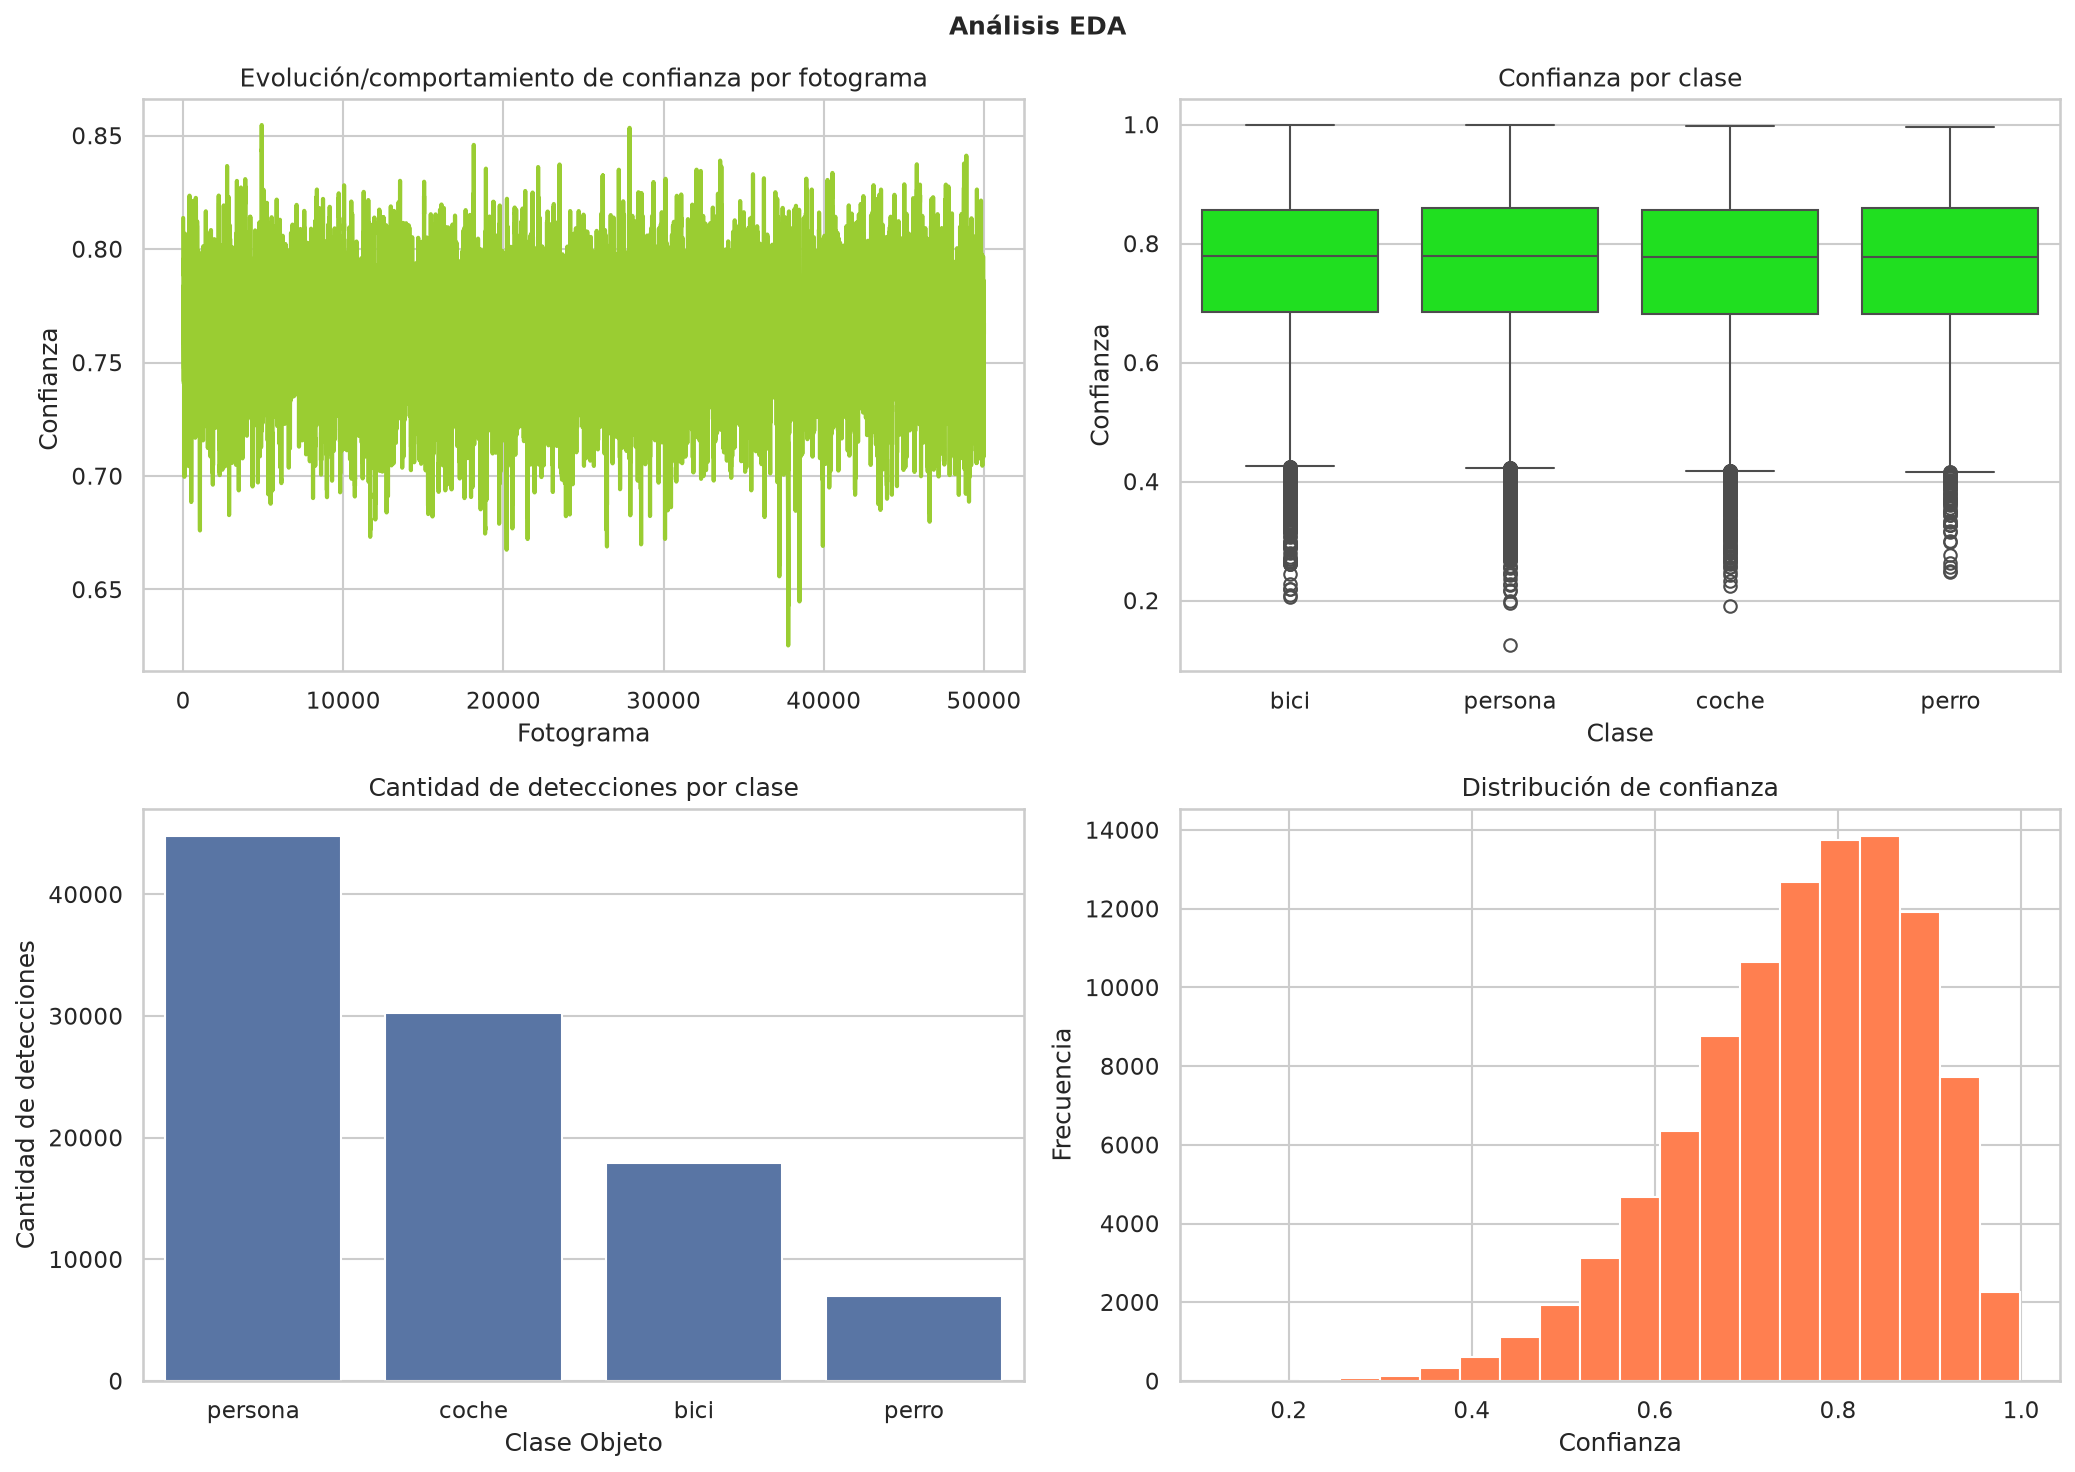
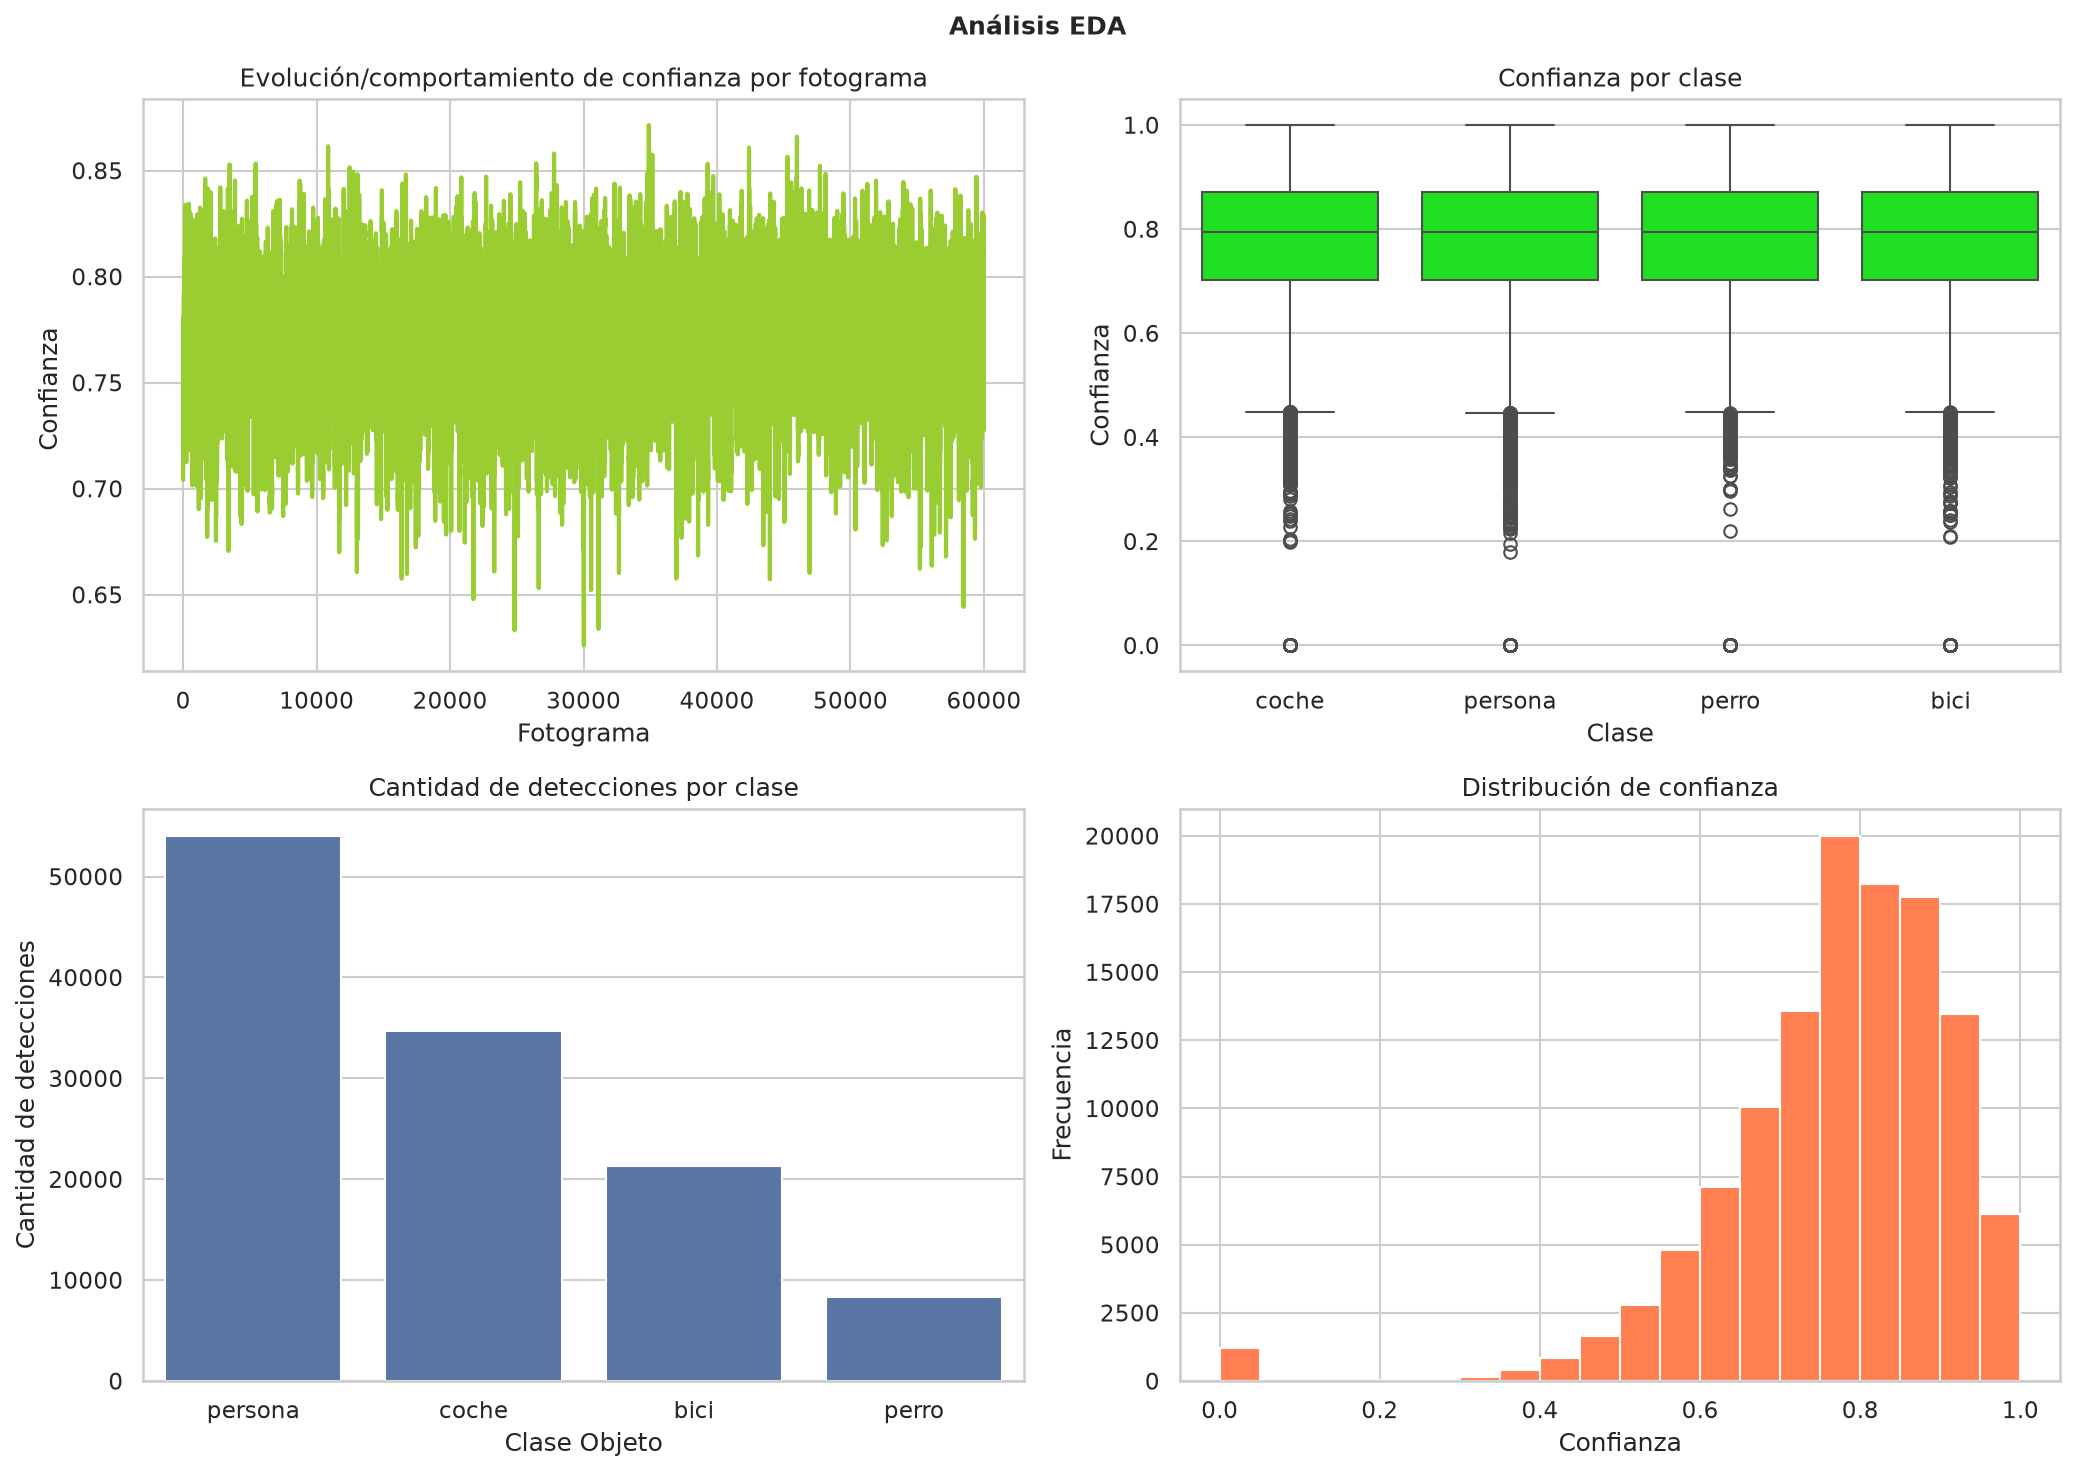
avance proyecto

diff --git a/Bloque_0_Fundamentos_Entrada/Unidad_0.3_Estructuras_de_Datos_Algoritmos_Fundamentales/Dia_08_algo_integrador/pipeline_vixia/pipeline.py b/Bloque_0_Fundamentos_Entrada/Unidad_0.3_Estructuras_de_Datos_Algoritmos_Fundamentales/Dia_08_algo_integrador/pipeline_vixia/pipeline.py
@@ -1,0 +1,108 @@
+from dataclasses import dataclass
+
+@dataclass(frozen=True)
+class Deteccion:
+
+    id : str
+    clase : str
+    confianza : float
+    x : float
+    y : float
+    timestamp : int
+
+def construir_indices(detecciones: list[Deteccion]) -> dict:
+    por_id = {}
+    por_clase = {}
+    vistos = set()
+    duplicados = 0
+
+    for i in detecciones:
+        if i.id in vistos:
+            duplicados += 1
+            continue
+
+        por_id[i.id] = i
+
+
+        if i.clase not in por_clase:
+            por_clase[i.clase] = []
+
+        por_clase[i.clase].append(i)
+
+        vistos.add(i.id)
+
+    return {
+        "por_id": por_id,
+        "por_clase": por_clase,
+        "vistos": vistos,
+        "duplicados": duplicados
+    }
+
+def limite_izquierdo(confianzas: list[float],umbral:float)-> int:
+    bajo=0
+    alto=len(confianzas)
+    while bajo<alto:
+        medio=(bajo+alto) // 2
+
+        if confianzas[medio]<umbral:
+            bajo=medio+1
+        else:
+            alto=medio
+
+    return bajo
+
+
+
+def seleccionar_por_umbral(detecciones: list[Deteccion],umbral: float) -> list[Deteccion]:
+
+    ordenadas = sorted(detecciones, key=lambda x: x.confianza)
+
+    lista = []
+    for i in ordenadas:
+        lista.append(i.confianza)
+
+    return ordenadas[limite_izquierdo(lista,umbral):]
+
+
+detecciones = [
+    Deteccion(
+        id="obj_01",
+        clase="persona",
+        confianza=0.91,
+        x=10.5,
+        y=20.0,
+        timestamp=100
+    ),
+    Deteccion(
+        id="obj_02",
+        clase="coche",
+        confianza=0.78,
+        x=15.2,
+        y=22.4,
+        timestamp=101
+    ),
+    Deteccion(
+        id="obj_03",
+        clase="persona",
+        confianza=0.84,
+        x=8.0,
+        y=19.3,
+        timestamp=102
+    )
+]
+
+lista = seleccionar_por_umbral(detecciones,umbral=0.8)
+print(lista)
+
+
+
+
+
+
+
+
+
+
+
+
+

diff --git a/Bloque_0_Fundamentos_Entrada/Unidad_0.3_Estructuras_de_Datos_Algoritmos_Fundamentales/Dia_08_algo_integrador/pipeline_vixia/test_pipeline.py b/Bloque_0_Fundamentos_Entrada/Unidad_0.3_Estructuras_de_Datos_Algoritmos_Fundamentales/Dia_08_algo_integrador/pipeline_vixia/test_pipeline.py
@@ -1,0 +1,61 @@
+import pytest
+from pipeline_vixia.pipeline import Deteccion, construir_indices,limite_izquierdo,seleccionar_por_umbral
+
+
+def test_analisis_instancia():
+    result = Deteccion("objeto_01", "persona", 0.28, 10.5, 20, 3)
+    assert isinstance(result, Deteccion)
+
+def test_deduplicacion():
+    result1 = Deteccion("a", "persona",0.67, 10.52, 11, 9)
+    result2 = Deteccion("a", "persona",0.12, 14.2, 13, 4)
+    resultado=construir_indices([result1 ,result2])
+    assert resultado["duplicados"]==1
+    assert len(resultado["por_id"])==1
+
+    assert  resultado["por_id"]["a"]==result1
+    assert resultado["por_clase"]["persona"]==[result1]
+
+def test_limite_izquierdo():
+    confianzas = [0.20, 0.45, 0.61, 0.78, 0.93]
+    assert limite_izquierdo(confianzas, umbral=0.61) == 2
+    assert limite_izquierdo(confianzas, umbral=0.99) == 5
+    assert limite_izquierdo(confianzas,umbral=0.61) == 2
+
+
+def test_seleccion_umbral():
+    detecciones = [
+        Deteccion(
+            id="a",
+            clase="persona",
+            confianza=0.90,
+            x=10.5,
+            y=20.0,
+            timestamp=100
+        ),
+        Deteccion(
+            id="b",
+            clase="coche",
+            confianza=0.4,
+            x=15.2,
+            y=22.4,
+            timestamp=101
+        ),
+        Deteccion(
+            id="c",
+            clase="persona",
+            confianza=0.75,
+            x=8.0,
+            y=19.3,
+            timestamp=102
+        )
+    ]
+
+    result = seleccionar_por_umbral(detecciones,umbral=0.7)
+    assert [d.id for d in result] == ["c", "a"]
+
+    result2 = seleccionar_por_umbral(detecciones,umbral=1)
+    assert result2 == []
+
+    result3 = seleccionar_por_umbral(detecciones,umbral=0)
+    assert set(result3) == set(detecciones)

diff --git a/Bloque_0_Fundamentos_Entrada/Unidad_0.3_Estructuras_de_Datos_Algoritmos_Fundamentales/Dia_08_algo_integrador/main.py b/Bloque_0_Fundamentos_Entrada/Unidad_0.3_Estructuras_de_Datos_Algoritmos_Fundamentales/Dia_08_algo_integrador/main.py
@@ -1,0 +1,32 @@
+a=5
+b=7
+
+
+
+def sumar(a:int, b:int) -> int:
+    return ""
+def restar(a, b):
+    return a - b
+def multiplicar(a, b):
+    return a * b
+def dividir(a, b):
+    return a / b
+
+def mayorEdad():
+     a  =int(input("digite um numero"))
+     if a >= 18:
+      print("es mayor de edad")
+     else:
+      print("menor de edad")
+
+
+def llenarlistar(lista):
+    tope = int(input("cuantos quiere meter"))
+    for i in range(tope):
+        lista.append(int(input("digite um numero")))
+    for i in range(tope):
+         print(lista[i])
+
+llenarlistar(lista=[])
+
+

diff --git a/Bloque_0_Fundamentos_Entrada/Unidad_0.2_Programacion_en_Python_Cientifico/Dia_10_py/run_eda.py b/Bloque_0_Fundamentos_Entrada/Unidad_0.2_Programacion_en_Python_Cientifico/Dia_10_py/run_eda.py
@@ -17,7 +17,7 @@ RUTA_CSV = os.path.join(                                             # Construye
     "src",
     "EDA_Zettik",
     "data",
-    "11_valido_grande_100k.csv"
+    "ataque_limpieza_122k.csv"
 )
 
 RUTA_SALIDAS = os.path.join(                                         # Construye carpeta de artefactos
@@ -39,3 +39,4 @@ if __name__ == "__main__":
         f"filas={hallazgos.n_datos} | "                               
         f"clase predominante={hallazgos.clase_predominante}"
     )
+

diff --git a/Bloque_0_Fundamentos_Entrada/Unidad_0.2_Programacion_en_Python_Cientifico/Dia_10_py/src/EDA_Zettik/salidas/informe_eda.md b/Bloque_0_Fundamentos_Entrada/Unidad_0.2_Programacion_en_Python_Cientifico/Dia_10_py/src/EDA_Zettik/salidas/informe_eda.md
@@ -1,30 +1,30 @@
 # Informe EDA — VizionarIA
 
 ## Resumen del dataset
-- Detecciones analizadas: 100000
+- Detecciones analizadas: 118275
 - Clase predominante: persona
 
 ## Distribución de clases
-- persona: 44819
-- coche: 30216
-- bici: 17952
-- perro: 7013
+- persona: 54045
+- coche: 34677
+- bici: 21272
+- perro: 8281
 
 ## Distribución global de confianza
-- Media: 0.7621
-- Mediana: 0.7789
-- Q1: 0.6832
-- Q3: 0.8579
-- Desviación estándar: 0.1254
+- Media: 0.7718
+- Mediana: 0.7948
+- Q1: 0.7017
+- Q3: 0.8711
+- Desviación estándar: 0.1459
 
 ## Confianza por clase
-- bici: 0.7619
-- coche: 0.7609
-- perro: 0.7619
-- persona: 0.7629
+- bici: 0.7733
+- coche: 0.7712
+- perro: 0.7727
+- persona: 0.7715
 
 ## Relación temporal
-- Correlación confianza-fotograma: 0.0001
+- Correlación confianza-fotograma: 0.0031
 - No se observa una relación lineal relevante entre fotograma y confianza.
 
 ## Panel EDA
